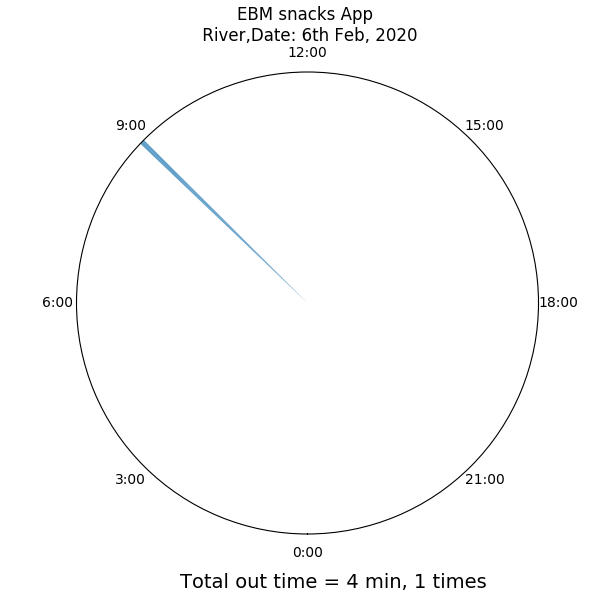
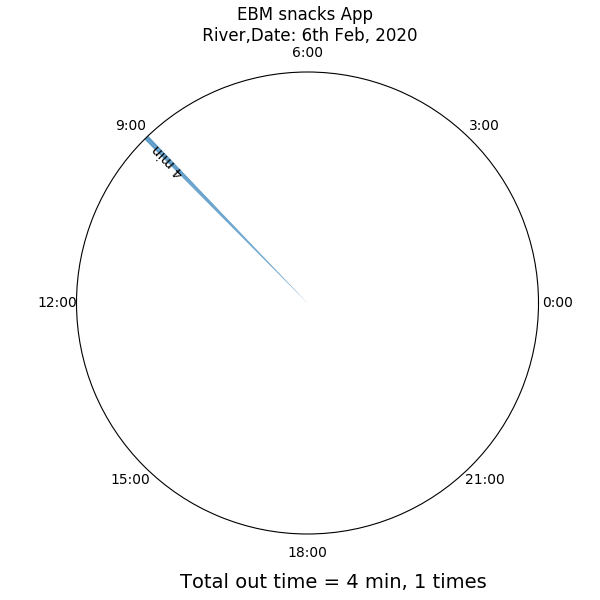
added the symmetric labels, but clock orientation goes anticlokwise which is against our perseption of observing time clockwise when we look at it.

diff --git a/polarbar_final.py b/polarbar_final.py
@@ -15,12 +15,12 @@ theta = np.arange(0,2*np.pi,2*np.pi/1440)
 width = np.pi*2/1440
 
 
-#create a list of empty strings where the length of the list = total number of bars(i.e = 1440)
-timespan_label=[]
-for i in range(0,1440):
-    timespan_label.append('')
-
 def plot(outtimes):
+
+    #create a list of empty strings where the length of the list = total number of bars(i.e = 1440)
+    timespan_label=[]
+    for i in range(0,1440):
+        timespan_label.append('')
     
     total_outtime = 0
     outtime_durations = []
@@ -30,12 +30,13 @@ def plot(outtimes):
         outtime_durations.append(delta)
         for i in range(j[0],j[1]+1):
             bar_height[i] = delta
+        timespan_label[(j[0]+j[1])//2] = str(delta)+" min"
             
     fig = plt.figure(figsize=(6,6))
     ax = fig.add_axes([0.1, 0.1, 0.75, 0.79], polar=True)
     ax = plt.subplot(111, projection='polar')
-    ax.set_theta_zero_location("S")
-    ax.set_theta_direction(-1) #now it is clockwise
+    #ax.set_theta_zero_location("S")
+    #ax.set_theta_direction(-1) #now it is clockwise
     ax.grid(False)
     ax.spines['polar'].set_visible(True) #shows the outer circle
     ax.set_yticklabels([])      #removes the y-tick labels( i.e bar heights)
@@ -49,9 +50,18 @@ def plot(outtimes):
     textstr = "Total out time = {} min, {} times".format(total_outtime, num_outtimes)
     plt.gcf().text(0.3, 0.02, textstr, fontsize=14)
     
-    
     bars = ax.bar(theta, bar_height, width=width, bottom=0.0, alpha = 0.8) #edgecolor = "k"
     ax.set_ylim(0, min(outtime_durations))
+
+    #for plotting out time labels symmetrically 
+
+    rotations = np.rad2deg(theta)
+    for x, bar, rotation, label in zip(theta, bars, rotations, timespan_label ):
+        lab = ax.text(x,min(outtime_durations) - 0.9 , label, 
+                 ha='left', va='center', rotation=rotation, rotation_mode="anchor")
+    
+
+
     
     #below block of code is udes to save the full screen figure generated
     manager = plt.get_current_fig_manager()
@@ -73,13 +83,8 @@ for datum in demo_employee_data:
         plot(datum[key])
         bar_height = zeros([1440])
 
-#for plotting out time labels symmetrically 
-'''
-#rotations = np.rad2deg(theta)
-#for x, bar, rotation, label in zip(theta, bars, rotations, timespan_label ):
-   # lab = ax.text(x,min(outtime_durations)+0.05 , label, 
-       #      ha='left', va='center', rotation=rotation, rotation_mode="anchor")
-'''
+
+
 
 
 

diff --git a/snacks_email.py b/snacks_email.py
@@ -1,0 +1,27 @@
+import smtplib, ssl
+
+smtp_server = "smtp.gmail.com"
+port = 465 
+
+#create a secure SSL context
+context = ssl.create_default_context()
+sender_email = "inmygroovelifestyle@gmail.com"
+receiver_email = "inmygroovelifestyle@gmail.com"
+message = """\
+        This is a test message from python by River."""
+password = input("Type your password and press enter: ")
+
+try:
+    server = smtplib.SMTP(smtp_server, port)
+    print(server)
+    server.starttls(context = context)
+    server.login(sender_email, password)
+    server.sendmail(sender_email, receiver_email, message)
+except Exception as e:
+    print(e)
+finally:
+    server.quit()
+
+    
+    
+    

diff --git a/test.py b/test.py
@@ -1,16 +1,6 @@
-'''
-outtime = []
-row= ['r1','525','529','670','700','915','930']
-for i in range(0,len(row)):
-    if i == 0:
-        pass
-    elif i % 2 == 1:
-        new_outtime = (int(row[i]),int(row[i+1]))
-        outtime.append(new_outtime)
-    else:
-        pass
-print(outtime)
-'''
+#converts this format [{'r1':[(525,529),(670,700)]},{'r2':[(530,534),(680710)]}] to 
+# r1
+# [(525,529),(670,700)]  this format ( breks the dictionary down to name and outtimes as of required format)
 
 demo_employee_data = [{'r1':[(525,529),(670,700)]},{'r2':[(530,534),(680710)]}]
 

diff --git a/class_img.py b/class_img.py
@@ -1,0 +1,21 @@
+
+#parameterized constructor
+class dancer:
+    #attributes of the object (the dancer)
+    name = ""
+    country = ""
+    style = ""
+
+    def __init__(self, n, c, s):
+        self.name = n
+        self.country = c
+        self.style = s
+
+    
+    def intro(self):
+        print(f"I am {self.name} from {self.country} and my main dance style is {self.style}")
+
+obj1 = dancer("kyoka", "japan", "Hip Hop")
+obj1.intro()
+
+
